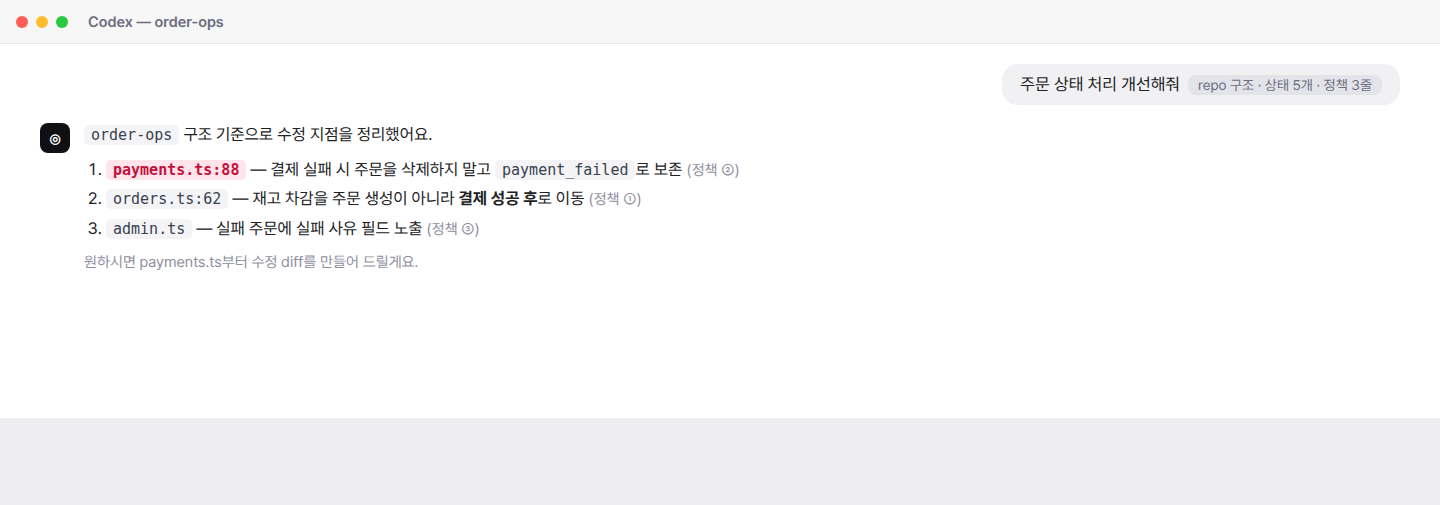
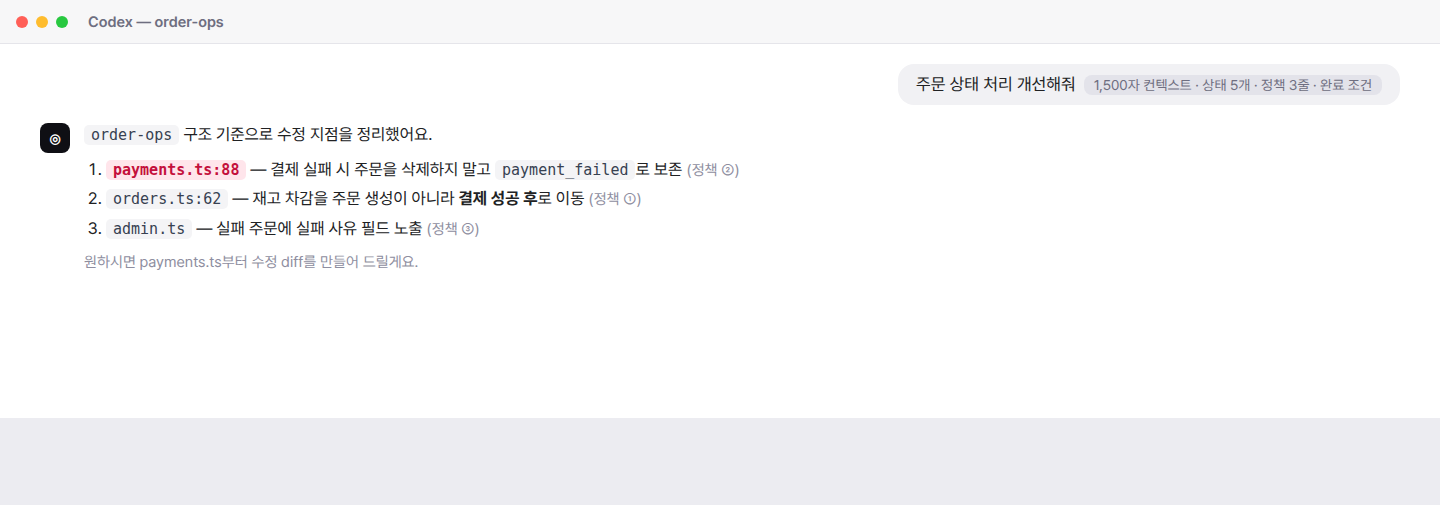
feat(lec01): 05b를 세션 A/B 대비로 재설계 + mock-sessb 신규
Claude-Session: https://claude.ai/code/session_01EC8RC8GHzcp4G1e9Hb7Xmt

Changed region(s): [[0.625, 0.1485, 0.9688, 0.1782]]

diff --git a/lec01.html b/lec01.html
@@ -215,16 +215,16 @@ npm run dev</div>
 <section class="mk anim">
           <div class="lbl">CHAPTER 1</div>
           <div class="kick" style="left:3.43%; top:12.18%;">패턴 01 · 데모</div>
-          <div class="h" style="left:3.43%; top:16.8%;">설명 유무 = 답의 격차</div>
-          <div class="t sm" style="left:4.2%; top:27.5%; font-weight:700;">설명 없이</div>
-          <div class="t sm" style="left:51.04%; top:27.5%; font-weight:700; color:#FC1C49;">설명 붙여서</div>
-          <div class="shot" style="left:4.2%; top:32%; width:44.76%; height:28%;"><img src="assets/mock-noctx.png" style="width:100%; height:100%; object-fit:cover; display:block; border-radius:3px;"></div>
-          <div class="shot" style="left:51.04%; top:32%; width:44.76%; height:28%;"><img src="assets/mock-ctx.png" style="width:100%; height:100%; object-fit:cover; display:block; border-radius:3px;"></div>
-          <div class="kchip" style="left:4.2%; top:63%; font-size:6.2px;">&gt; 주문 상태 처리 개선해줘</div>
-          <div class="kchip" style="left:51.04%; top:63%; font-size:6.2px;">&gt; 같은 요청 + repo 구조 · 상태 5개 · 정책 3줄</div>
-          <div class="t sm" style="left:4.2%; top:70.5%; width:44%; color:#5B5B5B;">답변 — 일반 리팩터링 조언 · <b>파일명 0개</b></div>
-          <div class="t sm" style="left:51.04%; top:70.5%; width:44%;">답변 — <b style="color:#FC1C49">payments.ts:88</b> 수정 제안 · 정책 3개 반영</div>
-          <div class="kstrip" style="left:4.2%; top:79%; width:91.6%; height:8.2%;"></div><div class="kstrip-t c" style="left:6%; top:81.6%; width:88%; text-align:center;"><b>같은 모델, 같은 요청</b> — 차이는 컨텍스트뿐. 답의 품질은 모델이 아니라 컨텍스트가 결정한다</div>
+          <div class="h" style="left:3.43%; top:16.8%;">세션이 바뀌면 결정이 사라진다</div>
+          <div class="t sm" style="left:4.2%; top:27.5%; font-weight:700;">세션 A · 어제</div>
+          <div class="t sm" style="left:51.04%; top:27.5%; font-weight:700; color:#FC1C49;">세션 B · 오늘</div>
+          <div class="shot" style="left:4.2%; top:32%; width:44.76%; height:28%;"><img src="assets/mock-ctx.png" style="width:100%; height:100%; object-fit:cover; display:block; border-radius:3px;"></div>
+          <div class="shot" style="left:51.04%; top:32%; width:44.76%; height:28%;"><img src="assets/mock-sessb.png" style="width:100%; height:100%; object-fit:cover; display:block; border-radius:3px;"></div>
+          <div class="kchip" style="left:4.2%; top:63%; font-size:6.2px;">&gt; 1,500자 컨텍스트 + 주문 상태 처리 개선해줘</div>
+          <div class="kchip" style="left:51.04%; top:63%; font-size:6.2px;">&gt; 어제 정한 대로 결제 실패 처리 이어서 해줘</div>
+          <div class="t sm" style="left:4.2%; top:70.5%; width:44%; color:#5B5B5B;">우리 파일을 짚고 <b>보존 결정까지 확정</b></div>
+          <div class="t sm" style="left:51.04%; top:70.5%; width:44%;"><b style="color:#FC1C49">어제가 뭔지 모른다</b> — 같은 질문을 다시 한다</div>
+          <div class="kstrip" style="left:4.2%; top:79%; width:91.6%; height:8.2%;"></div><div class="kstrip-t c" style="left:6%; top:81.6%; width:88%; text-align:center;"><b>같은 repo, 같은 모델 — 달라진 건 세션 하나뿐.</b> 사라진 건 대화가 아니라 어제 내린 결정이다</div>
           <div class="mark"><b></b>Fast campus</div>
         </section>
 <section class="mk anim">
@@ -607,7 +607,7 @@ npm run dev</div>
 <div id="toc"><div class="list" id="tocList"></div></div>
 <script>
 var slides = Array.prototype.slice.call(document.querySelectorAll('#stage .mk'));
-var TITLES = [["01", "표지"], ["02", "잘 되는 요청, 안 되는 요청"], ["03", "4가지 실패 패턴"], ["04", "실패하는 구조 실험"], ["04b", "실습 repo 받기"], ["05", "패턴1 매번 재설명"], ["D1", "데모 1 — 두 번의 세션"], ["05b", "설명 유무 = 답의 격차"], ["05c", "세션이 바뀌면 원점"], ["C2", "패턴 ② 바로 구현"], ["06", "패턴2 바로 구현"], ["D2", "데모 2"], ["06b", "한 줄 요청 = 파일 3개"], ["06c", "코드에 섞인 결정 3개"], ["C3", "패턴 ③ 검수 불가"], ["07", "패턴3 검수 불가"], ["D3", "데모 3"], ["07b", "답변에 없는 4가지"], ["07c", "3분 생성, 30분 검수"], ["C4", "패턴 ④ 대화창에만 남음"], ["08", "패턴4 대화창에만 남음"], ["D4", "데모 4"], ["08b", "5군데 모두 비어 있음"], ["08c", "대화는 소비, 파일은 자산"], ["09", "4패턴 한 장 요약"], ["10", "기준·경계·증거·기록"], ["11", "패턴 → 해법 → 강의"], ["12", "실패 패턴 진단표"], ["13", "다음: 답변을 자산으로"]];
+var TITLES = [["01", "표지"], ["02", "잘 되는 요청, 안 되는 요청"], ["03", "4가지 실패 패턴"], ["04", "실패하는 구조 실험"], ["04b", "실습 repo 받기"], ["05", "패턴1 매번 재설명"], ["D1", "데모 1 — 두 번의 세션"], ["05b", "세션이 바뀌면 결정이 사라진다"], ["05c", "세션이 바뀌면 원점"], ["C2", "패턴 ② 바로 구현"], ["06", "패턴2 바로 구현"], ["D2", "데모 2"], ["06b", "한 줄 요청 = 파일 3개"], ["06c", "코드에 섞인 결정 3개"], ["C3", "패턴 ③ 검수 불가"], ["07", "패턴3 검수 불가"], ["D3", "데모 3"], ["07b", "답변에 없는 4가지"], ["07c", "3분 생성, 30분 검수"], ["C4", "패턴 ④ 대화창에만 남음"], ["08", "패턴4 대화창에만 남음"], ["D4", "데모 4"], ["08b", "5군데 모두 비어 있음"], ["08c", "대화는 소비, 파일은 자산"], ["09", "4패턴 한 장 요약"], ["10", "기준·경계·증거·기록"], ["11", "패턴 → 해법 → 강의"], ["12", "실패 패턴 진단표"], ["13", "다음: 답변을 자산으로"]];
 var N = slides.length, cur = -1, hudT = null;
 var ctr = document.getElementById('ctr'), toc = document.getElementById('toc');
 

diff --git a/mockgen.py b/mockgen.py
@@ -48,8 +48,8 @@ MOCKS = {
 </ol>
 <p class="gray">프로젝트 구조를 공유해 주시면 더 구체적으로 도와드릴 수 있어요.</p>'''),
 
-  # 데모 ① — 설명 붙여서: payments.ts:88 + 정책 3개
-  'mock-ctx': page('주문 상태 처리 개선해줘', 'repo 구조 · 상태 5개 · 정책 3줄', '''
+  # 데모 ① 세션 A — 컨텍스트 붙여서: payments.ts:88 + 정책 3개
+  'mock-ctx': page('주문 상태 처리 개선해줘', '1,500자 컨텍스트 · 상태 5개 · 정책 3줄 · 완료 조건', '''
 <p><span class="mono">order-ops</span> 구조 기준으로 수정 지점을 정리했어요.</p>
 <ol>
 <li><span class="hl">payments.ts:88</span> — 결제 실패 시 주문을 삭제하지 말고 <span class="mono">payment_failed</span>로 보존 <span class="gray">(정책 ②)</span></li>
@@ -57,6 +57,17 @@ MOCKS = {
 <li><span class="mono">admin.ts</span> — 실패 주문에 실패 사유 필드 노출 <span class="gray">(정책 ③)</span></li>
 </ol>
 <p class="gray">원하시면 payments.ts부터 수정 diff를 만들어 드릴게요.</p>'''),
+
+  # 데모 ① 세션 B — 새 세션, "어제 정한 대로" → 모름 + 같은 질문 반복
+  'mock-sessb': page('어제 정한 대로 결제 실패 처리 이어서 해줘', None, '''
+<p><span class="hl">이전 대화 내용은 확인할 수 없습니다.</span> 현재 코드 기준으로 다시 정리했습니다.</p>
+<p>진행하려면 다음을 먼저 결정해야 합니다.</p>
+<ol>
+<li>결제 실패 주문을 <b>보존</b>할까요, <b>삭제</b>할까요?</li>
+<li>재고는 <b>주문 생성</b>과 <b>결제 성공</b> 중 언제 차감할까요?</li>
+<li>관리자 화면에 실패 사유를 어디까지 노출할까요?</li>
+</ol>
+<p class="gray">참고 — 현재 <span class="mono">OrderStatus</span>는 pending | paid | cancelled 입니다.</p>'''),
 
   # 데모 ② 마지막 답변 — 결론만, 근거 없음 (C3 리캡용)
   'mock-demo2': page('결제 실패 상태 처리해줘', None, '''
